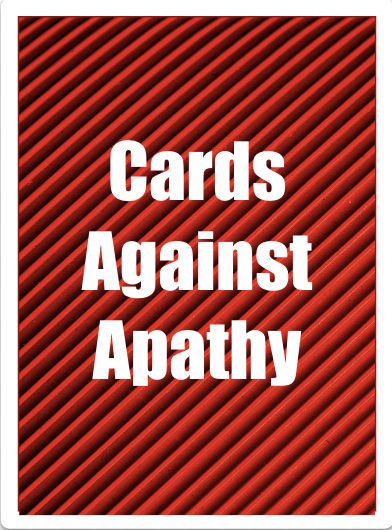
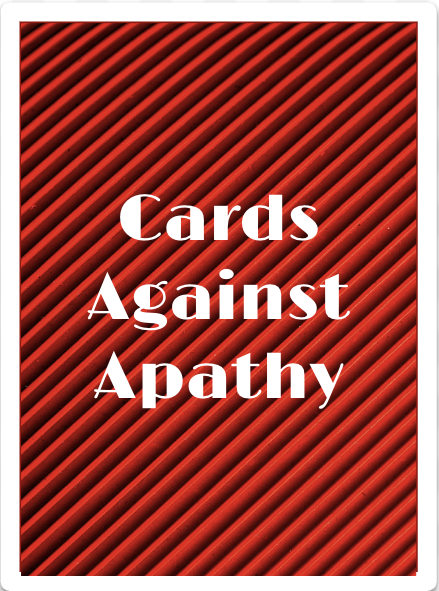
Fixed the card back font and added the Google font to the favorites HTML, so that it will display

diff --git a/favorites.html b/favorites.html
@@ -12,6 +12,8 @@
 </link>
 <link rel="stylesheet" href="./assets/css/style.css">
 </link>
+<link rel="stylesheet" href="https://fonts.googleapis.com/css?family=Limelight">
+</link>
 
 <title>Cards Against Apathy</title>
 </head>
